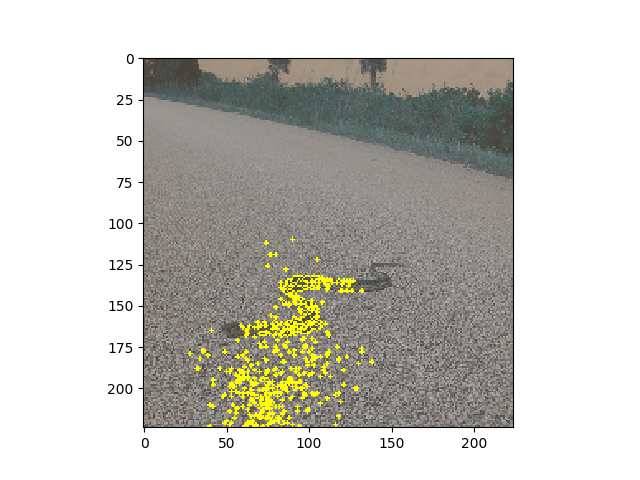
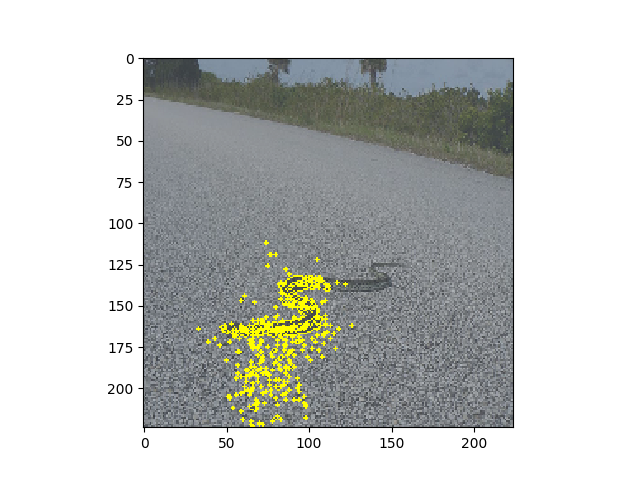
Produced first set of results for DeepLIFT, SHAP, LIME and gradCAM

Changed region(s): [[0.3125, 0.5625, 0.5625, 0.9062], [0.3125, 0.125, 0.8125, 0.2188], [0.5312, 0.7812, 0.5625, 0.8125]]

diff --git a/src/methods/SHAP.py b/src/methods/SHAP.py
@@ -2,26 +2,26 @@ import sys
 sys.path.append('src/')
 import os
 
-from keras.applications.vgg16 import VGG16
-from keras.applications.vgg16 import preprocess_input
+from keras.applications import VGG16
+from keras.applications import InceptionV3
 import keras.backend as K
 import numpy as np
 import json
+import matplotlib.pyplot as plt
 
 # helper functions
 from keras.applications.imagenet_utils import decode_predictions
 from keras.preprocessing.image import img_to_array
 from keras.preprocessing.image import load_img
+
 from preprocessing.keras_util import getPreprocessForModel
 from preprocessing.imagenet import getClassificationClasses
 
 import shap
-from methods.visualiser import modified_SHAP_plot
+from shap.plots.colors import red_transparent_blue
 
 
 RAW_CLASSES = getClassificationClasses()
-
-
 IMG_BASE_PATH = 'data/imagenet_val_subset/ILSVRC2012_val_000000'
 
 
@@ -78,9 +78,10 @@ def image_plot(shap_values, x, labels=None, show=True, width=20, aspect=0.2, hsp
                 axes[row,i+1].set_title(labels[row,i], **label_kwargs)
             sv = shap_values[i][row] if len(shap_values[i][row].shape) == 2 else shap_values[i][row].sum(-1)
             axes[row,i+1].imshow(x_curr_gray, cmap=plt.get_cmap('gray'), alpha=0.15, extent=(-1, sv.shape[0], sv.shape[1], -1))
-            im = axes[row,i+1].imshow(sv, cmap=colors.red_transparent_blue, vmin=-max_val, vmax=max_val)
+            im = axes[row,i+1].imshow(sv, cmap=red_transparent_blue, vmin=-max_val, vmax=max_val)
+            # quick workaround to get subplot as export
             extent = axes[row,i+1].get_window_extent().transformed(fig.dpi_scale_trans.inverted())
-            fig.savefig('test_subplot_shap.png', bbox_inches=extent)
+            fig.savefig(output_img_path, bbox_inches=extent.expanded(1.3, 1))
             axes[row,i+1].axis('off')
     if hspace == 'auto':
         fig.tight_layout()
@@ -88,67 +89,65 @@ def image_plot(shap_values, x, labels=None, show=True, width=20, aspect=0.2, hsp
         fig.subplots_adjust(hspace=hspace)
     cb = fig.colorbar(im, ax=np.ravel(axes).tolist(), label="SHAP value", orientation="horizontal", aspect=fig_size[0]/aspect)
     cb.outline.set_visible(False)
-    if show:
-        plt.show()
+    #if show:
+    #    plt.show()
 
 
 
 
+def attribute(modelName, model, imgPath, outputImgPath):
+    preprocess = getPreprocessForModel(modelName)
 
 
+    imgSize = (224, 224)
+    if modelName == 'inception' or modelName == 'xception':
+        imgSize = (299, 299)
+
+    inputImage = load_img(imgPath, target_size=imgSize)
+    inputImage = img_to_array(inputImage)
+    expandedImg = np.expand_dims(inputImage, axis=0)
+    processedImg = preprocess(inputImage)
+    
+    backgroundData, Y = shap.datasets.imagenet50()
+
+    # explain how the input to the 7th layer of the model explains the top two classes
+    def map2layer(x, layer):
+        feed_dict = dict(zip([model.layers[0].input], [preprocess(x.copy())]))
+        return K.get_session().run(model.layers[layer].input, feed_dict)
+
+    # combines expectation with sampling values from whole background data set
+    e = shap.GradientExplainer(
+        (model.layers[7].input, model.layers[-1].output),
+        map2layer(backgroundData, 7),
+        local_smoothing=0 # std dev of smoothing noise
+    )
+
+    # get outputs for top prediction count "ranked_outputs"
+    shap_values, indexes = e.shap_values(map2layer(expandedImg, 7), ranked_outputs=1)
+
+    # get the names for the classes
+    #index_names = np.vectorize(lambda x: class_names[str(x)][1])(indexes)
+
+    # using the top indexes (i.e out of 1:1000)
+    imgLabels = np.vectorize(lambda x: RAW_CLASSES[str(x)][1])(indexes)
+
+    # plot the explanations
+    image_plot(shap_values, expandedImg, imgLabels, output_img_path=outputImgPath)
+
+    #modified_SHAP_plot(shap_values, inputImage, imgLabels)
 
 
+MODELS = {
+    "vgg16": VGG16,
+    "inception": InceptionV3
+}
+
+modelName = 'vgg16'
+model = MODELS[modelName](weights='imagenet')
 
 
-
-
-
-
-
-preprocess = getPreprocessForModel('vgg16')
-
-backgroundData, Y = shap.datasets.imagenet50()
-
-imgSize = (224, 224)
-inputImagePath = 'data/imagenet_val_subset/ILSVRC2012_val_00000003.JPEG'
-inputImage = load_img(inputImagePath, target_size=imgSize)
-inputImage = img_to_array(inputImage)
-inputImage = np.expand_dims(inputImage, axis=0)
-img = preprocess(inputImage)
-
-
-model = VGG16(weights='imagenet', include_top=True)
-
-
-
-
-
-
-# explain how the input to the 7th layer of the model explains the top two classes
-def map2layer(x, layer):
-    feed_dict = dict(zip([model.layers[0].input], [preprocess(x.copy())]))
-    return K.get_session().run(model.layers[layer].input, feed_dict)
-
-# combines expectation with sampling values from whole background data set
-e = shap.GradientExplainer(
-    (model.layers[7].input, model.layers[-1].output),
-    map2layer(backgroundData, 7),
-    local_smoothing=0 # std dev of smoothing noise
-)
-
-# get outputs for top prediction count "ranked_outputs"
-shap_values, indexes = e.shap_values(map2layer(inputImage, 7), ranked_outputs=1)
-
-# get the names for the classes
-#index_names = np.vectorize(lambda x: class_names[str(x)][1])(indexes)
-
-# using the top indexes (i.e 1:1000)
-imgLabels = np.vectorize(lambda x: RAW_CLASSES[str(x)][1])(indexes)
-
-# plot the explanations
-shap.image_plot(shap_values, inputImage, imgLabels)
-
-#modified_SHAP_plot(shap_values, inputImage, imgLabels)
-
-
-
+for i in range(1, 16):
+    image = str(i)
+    if i < 10:
+        image = '0' + image
+    attribute(modelName, model, IMG_BASE_PATH + image + '.JPEG', 'results/shap/shap_' + image + '.png')

diff --git a/src/methods/grad_cam.py b/src/methods/grad_cam.py
@@ -24,6 +24,8 @@ from tensorflow.python.framework import ops
 os.environ["TF_CPP_MIN_LOG_LEVEL"] = '3'
 tf.compat.v1.logging.set_verbosity(tf.compat.v1.logging.ERROR)
 
+IMG_BASE_PATH = 'data/imagenet_val_subset/ILSVRC2012_val_000000'
+
 
 # Define model here ---------------------------------------------------
 def build_model():
@@ -155,7 +157,8 @@ def grad_cam_batch(input_model, images, classes, layer_name):
     return new_cams
 
 
-def compute_saliency(model, guided_model, img_path, layer_name='block5_conv3', cls=-1, visualize=True, save=True):
+def compute_saliency(model, guided_model, img_path, layer_name='block5_conv3', cls=-1, 
+    visualize=True, save=True, output_img_path=''):
     """Compute saliency using all three approaches.
         -layer_name: layer to compute gradients;
         -cls: class number to localize (-1 for most probable class).
@@ -179,12 +182,17 @@ def compute_saliency(model, guided_model, img_path, layer_name='block5_conv3', c
     guided_gradcam = gb * gradcam[..., np.newaxis]
 
     if save:
-        jetcam = cv2.applyColorMap(np.uint8(255 * gradcam), cv2.COLORMAP_JET)
-        jetcam = (np.float32(jetcam) + load_image(img_path, preprocess=False)) / 2
-        cv2.imwrite('gradcam.jpg', np.uint8(jetcam))
-        cv2.imwrite('guided_backprop.jpg', deprocess_image(gb[0]))
-        cv2.imwrite('guided_gradcam.jpg', deprocess_image(guided_gradcam[0]))
-    
+        #jetcam = cv2.applyColorMap(np.uint8(255 * gradcam), cv2.COLORMAP_JET)
+        #jetcam = (np.float32(jetcam) + load_image(img_path, preprocess=False)) / 2
+        #cv2.imwrite(output_img_path + 'gc.png', np.uint8(jetcam))
+        #cv2.imwrite('guided_backprop.jpg', deprocess_image(gb[0]))
+        #cv2.imwrite(output_img_path + 'ggc.png', deprocess_image(guided_gradcam[0]))
+        plt.imshow(load_image(img_path, preprocess=False))
+        plt.imshow(gradcam, cmap='jet', alpha=0.5)
+        plt.savefig(output_img_path)
+        # TODO: include guided gradCAM for class disciminative look
+        plt.cla()
+
     if visualize:
         plt.figure(figsize=(15, 10))
         plt.subplot(131)
@@ -206,8 +214,28 @@ def compute_saliency(model, guided_model, img_path, layer_name='block5_conv3', c
         
     return gradcam, gb, guided_gradcam
 
-if __name__ == '__main__':
-    model = build_model()
-    guided_model = build_guided_model()
-    gradcam, gb, guided_gradcam = compute_saliency(model, guided_model, layer_name='block5_conv3',
-                                             img_path=sys.argv[1], cls=-1, visualize=True, save=True)
+
+# if __name__ == '__main__':
+#     model = build_model()
+#     guided_model = build_guided_model()
+#     gradcam, gb, guided_gradcam = compute_saliency(model, guided_model, layer_name='block5_conv3',
+#                                              img_path=sys.argv[1], cls=-1, visualize=True, save=True)
+
+#MODELS = {
+#    "vgg16": VGG16,
+#    "inception": InceptionV3
+#}
+#model = MODELS[modelName](weights='imagenet')
+modelName = 'vgg16'
+model = build_model()
+guidedModel = build_guided_model()
+
+def attribute(modelName, model, guidedModel, imgPath, outputImgPath):
+    gradcam, gb, guided_gradcam = compute_saliency(model, guidedModel, layer_name='block5_conv3',
+                                             img_path=imgPath, cls=-1, visualize=False, save=True, output_img_path=outputImgPath)
+
+for i in range(1, 16):
+    image = str(i)
+    if i < 10:
+        image = '0' + image
+    attribute(modelName, model, guidedModel, IMG_BASE_PATH + image + '.JPEG', 'results/gradcam/gradcam_' + image)

diff --git a/src/methods/deep_lift.py b/src/methods/deep_lift.py
@@ -5,6 +5,7 @@ import innvestigate
 import innvestigate.utils
 
 from keras.applications import VGG16
+from keras.applications import InceptionV3
 from keras.applications.imagenet_utils import decode_predictions
 from keras.preprocessing.image import img_to_array
 from keras.preprocessing.image import load_img
@@ -26,28 +27,60 @@ from shap.plots.colors import red_transparent_blue
 os.environ["TF_CPP_MIN_LOG_LEVEL"] = '3'
 tf.compat.v1.logging.set_verbosity(tf.compat.v1.logging.ERROR)
 
+IMG_BASE_PATH = 'data/imagenet_val_subset/ILSVRC2012_val_000000'
 
 
-model = VGG16(weights='imagenet')
-preprocess = getPreprocessForModel('vgg16')
+def attribute(modelName, model, imgPath, outputImgPath):
+    preprocess = getPreprocessForModel(modelName)
 
-# strip softmax layer
-model = innvestigate.utils.model_wo_softmax(model)
+    # strip softmax layer
+    model = innvestigate.utils.model_wo_softmax(model)
 
-imgSize = (224, 224)
-img = load_img('data/imagenet_val_subset/ILSVRC2012_val_00000003.JPEG', target_size=imgSize)
-img = img_to_array(img)
-img = np.expand_dims(img, axis=0)
-img = preprocess(img)
+    imgSize = (224, 224)
+    if modelName == 'inception' or modelName == 'xception':
+        imgSize = (299, 299)
 
-analyser = innvestigate.analyzer.DeepLIFT(model)
+    inputImg = load_img(imgPath, target_size=imgSize)
+    inputImg = img_to_array(inputImg)
+    expandedImg = np.expand_dims(inputImg, axis=0)
+    preprocessedImg = preprocess(expandedImg)
 
-a = analyser.analyze(img)
+    analyser = innvestigate.analyzer.DeepLIFT(model)
 
-# Aggregate along color channels and normalize to [-1, 1]
-a = a.sum(axis=np.argmax(np.asarray(a.shape) == 3))
-a /= np.max(np.abs(a))
-# Plot
-plt.imshow(a[0], cmap="red_transparent_blue", clim=(-1, 1))
+    a = analyser.analyze(preprocessedImg)
 
-plt.show()
+    # Aggregate along color channels and normalize to [-1, 1]
+    a = a.sum(axis=np.argmax(np.asarray(a.shape) == 3))
+    a /= np.max(np.abs(a))
+
+    print(a[0].shape)
+    # Plot
+    # TODO : use extent to put input image down in greyscale
+
+    plt.imshow(inputImg, cmap=plt.get_cmap('gray'), alpha=0.15, extent=(-1, a[0].shape[0], a[0].shape[1], -1))
+    #print(np.abs(a[0]))
+    maxVal = np.nanpercentile(np.abs(a[0]), 99.9)
+    plt.imshow(a[0], cmap=red_transparent_blue, vmin=-maxVal, vmax=maxVal)
+    #plt.imshow(a[0], cmap='seismic', clim=(-1, 1))
+    plt.savefig(outputImgPath)
+    plt.cla()
+    #plt.show()
+
+
+
+MODELS = {
+    "vgg16": VGG16,
+    "inception": InceptionV3
+}
+
+modelName = 'vgg16'
+model = MODELS[modelName](weights='imagenet')
+
+
+for i in range(1, 16):
+    image = str(i)
+    if i < 10:
+        image = '0' + image
+    attribute(modelName, model, IMG_BASE_PATH + image + '.JPEG', 'results/deeplift/deeplift_' + image + '.png')
+
+

diff --git a/src/methods/LIME.py b/src/methods/LIME.py
@@ -57,7 +57,7 @@ def deprocess_image(x):
     return x
 
 
-def attribute(modelName, imgPath, outputImgPath):
+def attribute(modelName, model, imgPath, outputImgPath):
     preprocess = getPreprocessForModel(modelName)
     imgSize = (224, 224)
 
@@ -67,13 +67,6 @@ def attribute(modelName, imgPath, outputImgPath):
     img = img_to_array(img)
     expandedImg = np.expand_dims(img, axis=0)
     processedImg = preprocess(expandedImg)
-
-    model = MODELS[modelName](weights='imagenet')
-    
-    predictions = model.predict(processedImg)
-
-    for x in decode_predictions(predictions)[0]:
-        print(x)
 
     explainer = lime_image.LimeImageExplainer()
 
@@ -88,13 +81,16 @@ def attribute(modelName, imgPath, outputImgPath):
     #im = axes[row,i+1].imshow(sv, cmap=colors.red_transparent_blue, vmin=-max_val, vmax=max_val)
 
     # for inception, remember to / 2 and + 0.5
-    plt.imshow(mark_boundaries(np.flip(deprocess_image(temp), -1), mask))
+    plt.imshow(mark_boundaries(deprocess_image(temp), mask))
     plt.savefig(outputImgPath)
-    plt.show()
+    #plt.show()
 
+
+modelName = 'vgg16'
+model = MODELS[modelName](weights='imagenet')
 
 for i in range(1, 16):
     image = str(i)
     if i < 10:
         image = '0' + image
-attribute('vgg16', IMG_BASE_PATH + image + '.JPEG', 'results/lime/lime_' + image + '.png')
+    attribute(modelName, model, IMG_BASE_PATH + image + '.JPEG', 'results/lime/lime_' + image + '.png')
